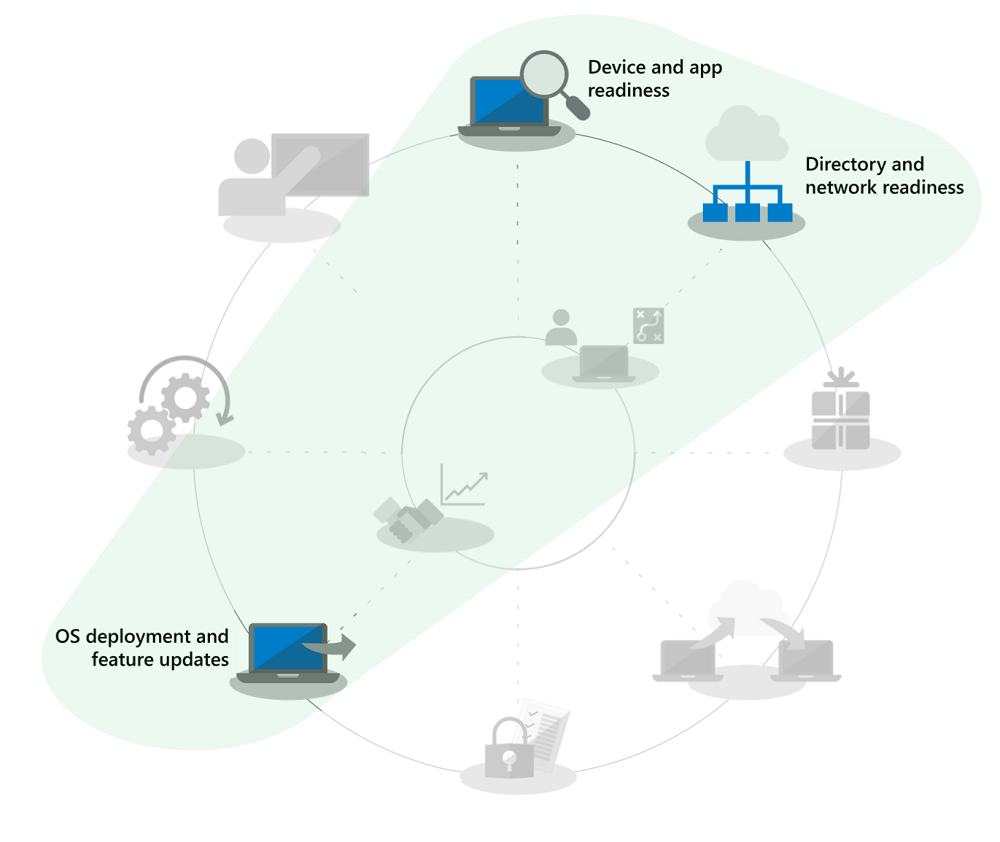
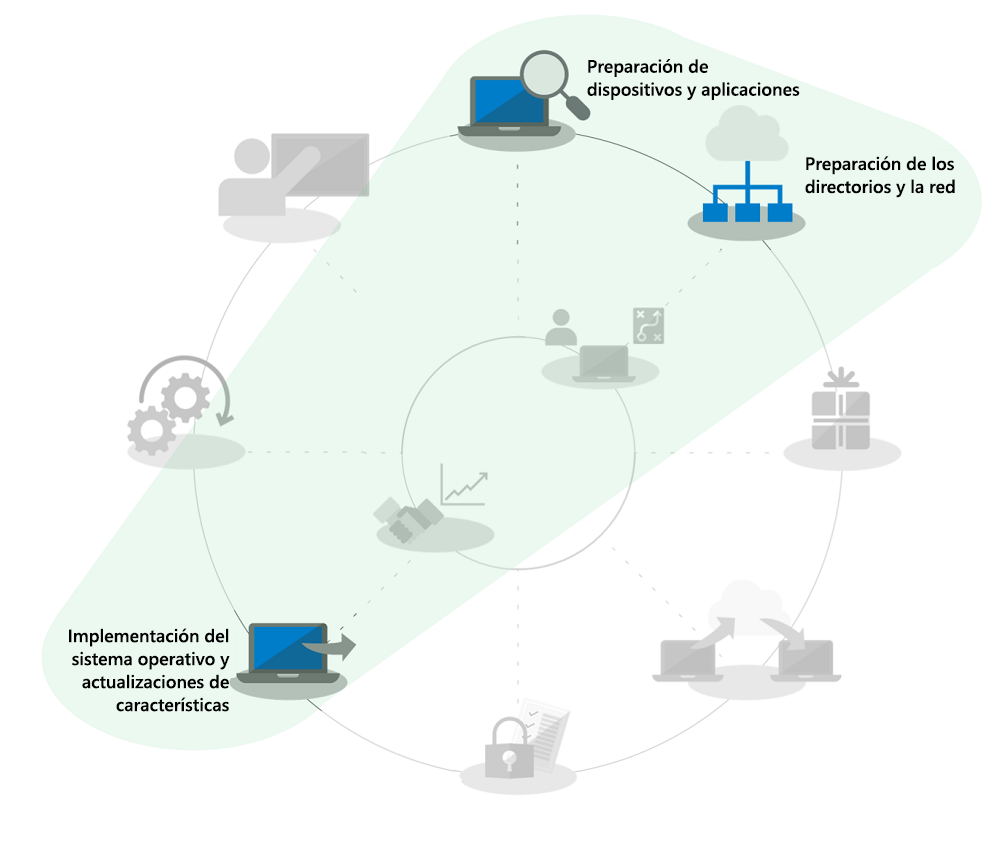
commit translated contents

Changed region(s): [[0.062, 0.7411, 0.248, 0.8646], [0.589, 0.0618, 0.806, 0.1235], [0.806, 0.1853, 0.961, 0.247]]

diff --git a/microsoft-365/enterprise/step-1-device-and-app-readiness.md b/microsoft-365/enterprise/step-1-device-and-app-readiness.md
@@ -13,12 +13,12 @@ ms.collection:
 - Strat_O365_Enterprise
 ms.custom: ''
 description: Obtenga información sobre cómo evaluar la preparación de los dispositivos y las aplicaciones en el entorno.
-ms.openlocfilehash: f45b4c4b38cd2108c706eb6465e9b5ba241e252f
-ms.sourcegitcommit: 7e806db3d44ec223754efe1e9613b2c7117c4788
+ms.openlocfilehash: eb619cf807c2bd4ad3644dbb26e72b62e30320c7
+ms.sourcegitcommit: 03828f954b9dddb265f867fa508178ec0d4a6aeb
 ms.translationtype: HT
 ms.contentlocale: es-ES
-ms.lasthandoff: 06/10/2019
-ms.locfileid: "34814641"
+ms.lasthandoff: 07/08/2019
+ms.locfileid: "35584556"
 ---
 # <a name="step-1-device-and-app-readiness"></a>Paso 1: Preparación de dispositivos y aplicaciones
 
@@ -41,7 +41,7 @@ En el pasado, el gran obstáculo para actualizar los equipos de escritorio del u
 
 Dicho esto, en función del tamaño y la antigüedad de la organización, es probable que la comprobación de la compatibilidad de las aplicaciones y el hardware siga siendo un paso inicial fundamental en el proceso de implementación en ocho fases recomendado.
 
-Este artículo le guiará por esa primera fase (Preparación de dispositivos y aplicaciones) con las herramientas de evaluación de preparación de Microsoft, incluyendo la nueva herramienta Upgrade Readiness de Windows Analytics, una solución inteligente basada en la nube disponible con la licencia de Windows.
+Este artículo le guiará por esa primera fase (Preparación de dispositivos y aplicaciones) con las herramientas de evaluación de preparación de Microsoft, incluyendo la nueva herramienta Upgrade Readiness de Desktop Analytics, una solución inteligente basada en la nube disponible con la licencia de Windows.
 
 ## <a name="windows-10-compatibility-scan"></a>Análisis de compatibilidad de Windows 10
 
@@ -53,13 +53,13 @@ Una línea de comandos de ejemplo de ScanOnly que complete la detección de comp
 
 Para obtener más información acerca de ScanOnly y otros modificadores de comando de configuración de Windows revise las [Opciones de configuración de línea de comandos de Windows](https://aka.ms/setupswitches).
 
-## <a name="recommended-tool-windows-analytics-upgrade-readiness"></a>Herramienta recomendada: Upgrade Readiness de Windows Analytics
+## <a name="recommended-tool-desktop-analytics-upgrade-readiness"></a>Herramienta recomendada: Upgrade Readiness de Desktop Analytics
 
-Upgrade Readiness de Windows Analytics ofrece numerosas ventajas acerca de los sistemas de administración de escritorio tradicionales y es la herramienta recomendada. No tiene agente y le guiará por los pasos que deben realizarse haciendo uso de la información de compatibilidad de aplicaciones y controladores recopilada a través de la actualización de millones de equipos de clientes. Esta información le proporciona una evaluación detallada, que identifica los problemas de compatibilidad que podrían bloquear la actualización, con vínculos a las correcciones sugeridas que conoce Microsoft.
+Upgrade Readiness de Desktop Analytics ofrece numerosas ventajas para los sistemas de administración de escritorio tradicionales y es la herramienta recomendada. No tiene agente y le guiará por los pasos que deben realizarse haciendo uso de la información de compatibilidad de aplicaciones y controladores recopilada a través de la actualización de millones de equipos de clientes. Esta información le proporciona una evaluación detallada, que identifica los problemas de compatibilidad que podrían bloquear la actualización, con vínculos a las correcciones sugeridas que conoce Microsoft.
 
-Para configurar Upgrade Readiness de Windows Analytics primero debe configurar una suscripción de Azure e incluir un área de trabajo de Azure Log Analytics para ello. Una vez que tenga se esté ejecutando el servicio de Upgrade Readiness de Windows Analytics, podrá inscribir dispositivo con Windows 7 SP1 o una versión posterior conectado a Internet mediante la configuración de Directiva de grupo, así de simple. No hay ningún agente que tenga que implementar y el flujo de trabajo visual de Upgrade Readiness de Windows Analytics le guiará desde la implementación de prueba a la de producción. Si lo desea, puede exportar datos de Upgrade Readiness de Windows Analytics a herramientas de implementación de software como System Center Configuration Manager, a equipos de destino directamente y crear colecciones a medida que estén listas para su implementación.
+Para configurar Upgrade Readiness de Windows Analytics primero debe configurar una suscripción de Azure e incluir un área de trabajo de Azure Log Analytics para ello. Una vez que se esté ejecutando el servicio de Upgrade Readiness de Desktop Analytics, podrá inscribir cualquier dispositivo con Windows 7 SP1 o una versión posterior conectado a Internet mediante la configuración de Directiva de grupo. Así de simple. No tiene que implementar ningún agente y el flujo de trabajo visual de Upgrade Readiness de Desktop Analytics le guiará desde la implementación de prueba a la de producción. Si quiere, puede exportar datos desde Upgrade Readiness de Desktop Analytics a herramientas de implementación de software, como la rama actual de System Center Configuration Manager, para dirigirlos directamente a equipos de destino y crear colecciones a medida que estén listas para su implementación.
 
-Si en la actualidad no ha configurado Windows Analytics para su entorno o quiere suscribirse a una prueba, vaya a la [página de Windows Analytics](http://www.aka.ms/windowsanalytics) y empiece a trabajar.
+Si en la actualidad no ha configurado Desktop Analytics para su entorno o quiere suscribirse a una prueba, puede empezar en la página de Desktop Analytics](http://www.aka.ms/desktopanalytics).
 
 ## <a name="device-and-app-readiness-process"></a>Proceso de preparación de dispositivos y aplicaciones
 
@@ -67,7 +67,7 @@ La preparación de dispositivos y aplicaciones consta de cuatro pasos: 1. Invent
 
 ### <a name="1-inventory"></a>1\. Inventario
 
-En Upgrade Readiness de Windows Analytics se usa un proceso sin agente para realizar el inventario de los equipos, aplicaciones y complementos de Office en el equipo de escritorio.
+En Upgrade Readiness de Desktop Analytics se usa un proceso sin agente para realizar el inventario de equipos y aplicaciones en el estado de escritorio.
 
 ![](media/step-1-device-and-app-readiness-media/step-1-device-and-app-readiness-media-3.png)
 
@@ -77,7 +77,7 @@ También se proporcionan informes acerca de los sitios de Internet muy visitados
 
 ### <a name="2-prioritize"></a>2\. Priorizar
 
-Con el inventario realizado, Upgrade Readiness de Windows Analytics le ayuda a identificar y priorizar las aplicaciones y el hardware más común que se usa en la organización, y en qué centrarse para desbloquear tantos equipos como sea posible para la implementación.
+Con el inventario realizado, Upgrade Readiness de Desktop Analytics le ayuda a identificar y priorizar el hardware y las aplicaciones más comunes que se usan en la organización, y le ayuda a identificar en qué centrarse para desbloquear tantos equipos como sea posible para la implementación.
 
 ![](media/step-1-device-and-app-readiness-media/step-1-device-and-app-readiness-media-5.png)
 
@@ -85,9 +85,9 @@ También proporciona instrucciones para ayudarle a evaluar qué actualizaciones 
 
 ### <a name="3-testing"></a>3\. Probar
 
-Descubrirá que la mayoría de los controladores, aplicaciones y complementos inventariados funcionan tal cual. Para aquellos elementos que Upgrade Readiness de Windows Analytics indica que tienen problemas, se proporciona información conocida como dónde encontrar actualizaciones de versión para resolver problemas de compatibilidad. En lugar de dedicar tiempo y recursos para resolver problemas complejos en aplicaciones que no son críticas que están implementadas de forma dispersa y en dispositivos antiguos, puede en su lugar trabajar con los usuarios para retirar y reemplazar estos elementos.
+Descubrirá que la mayoría de los controladores, aplicaciones y complementos inventariados funcionan tal cual. Para aquellos elementos que Upgrade Readiness de Desktop Analytics indica que tienen problemas, se proporciona información conocida, como dónde encontrar actualizaciones de versión para resolver problemas de compatibilidad. En lugar de dedicar tiempo y recursos para resolver problemas complejos en aplicaciones que no son críticas que están implementadas de forma dispersa y en dispositivos antiguos, puede en su lugar trabajar con los usuarios para retirar y reemplazar estos elementos.
 
-También puede usar Upgrade Readiness de Windows Analytics para evaluar los problemas de compatibilidad basados en el explorador, para identificar los sitios y las aplicaciones web a las que acceden los usuarios en los que todavía se usan controles ActiveX, objetos auxiliares del explorador, VBScript u otras tecnologías heredadas que no son compatibles con el explorador Microsoft Edge. Los usuarios tendrán que seguir usando Internet Explorer 11 para estos sitios y los puede agregar a la [lista de sitios del modo de empresa](https://docs.microsoft.com/es-ES/microsoft-edge/deploy/emie-to-improve-compatibility), con Enterprise Mode Site List Manager.
+También puede usar Upgrade Readiness de Desktop Analytics para evaluar los problemas de compatibilidad basados en el explorador, para identificar los sitios y las aplicaciones web a las que acceden los usuarios que todavía usan controles ActiveX, objetos del ayudante del explorador, VBScript u otras tecnologías heredadas que no son compatibles con el explorador Microsoft Edge. Los usuarios tendrán que seguir usando Internet Explorer 11 para estos sitios y los puede agregar a la [lista de sitios del modo de empresa](https://docs.microsoft.com/es-ES/microsoft-edge/deploy/emie-to-improve-compatibility) con Enterprise Mode Site List Manager.
 
 Además, para facilitar el cambio a Office 365 ProPlus, es posible que quiera usar [Readiness Toolkit para Office](https://docs.microsoft.com/es-ES/deployoffice/use-the-readiness-toolkit-to-assess-application-compatibility-for-office-365-pro) a fin de probar la compatibilidad de los complementos y las macros de Microsoft Visual Basic para Aplicaciones (VBA).
 
@@ -114,7 +114,7 @@ Otra herramienta para ayudar con la compatibilidad de aplicaciones de Windows 10
 
 ## <a name="continued-use-of-diagnostic-data-tools"></a>Uso continuado de herramientas de datos de diagnóstico
 
-Upgrade Readiness de Windows Analytics no es solo una herramienta para ayudar en el cambio a Windows 10 y Office 365 ProPlus. Una vez que haya equipos de escritorio que se ejecutan en Windows 10 y Office 365, se puede usar para ayudar a mantener la implementación y administrar las actualizaciones de características semestrales para mantenerse actualizado.
+Upgrade Readiness de Desktop Analytics no es solo una herramienta para ayudar en el cambio a Windows 10 y Office 365 ProPlus. Una vez que haya equipos de escritorio que se ejecutan en Windows 10 y Office 365, se puede usar para ayudar a mantener la implementación y administrar las actualizaciones de características semestrales y mantenerse actualizado.
 
 ## <a name="next-step"></a>Siguiente paso 
 
